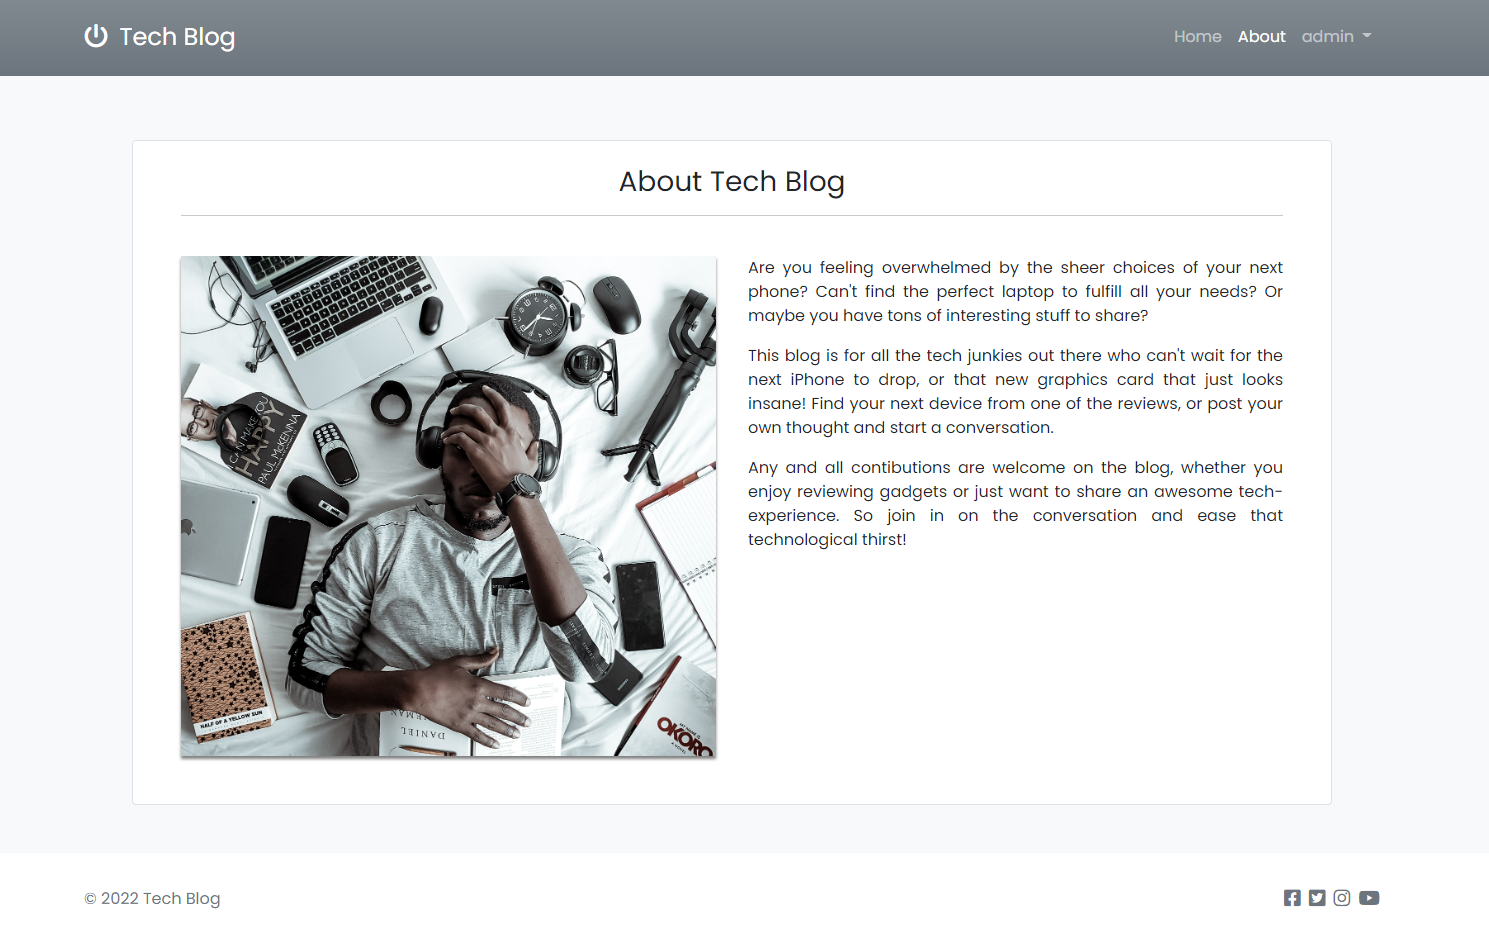
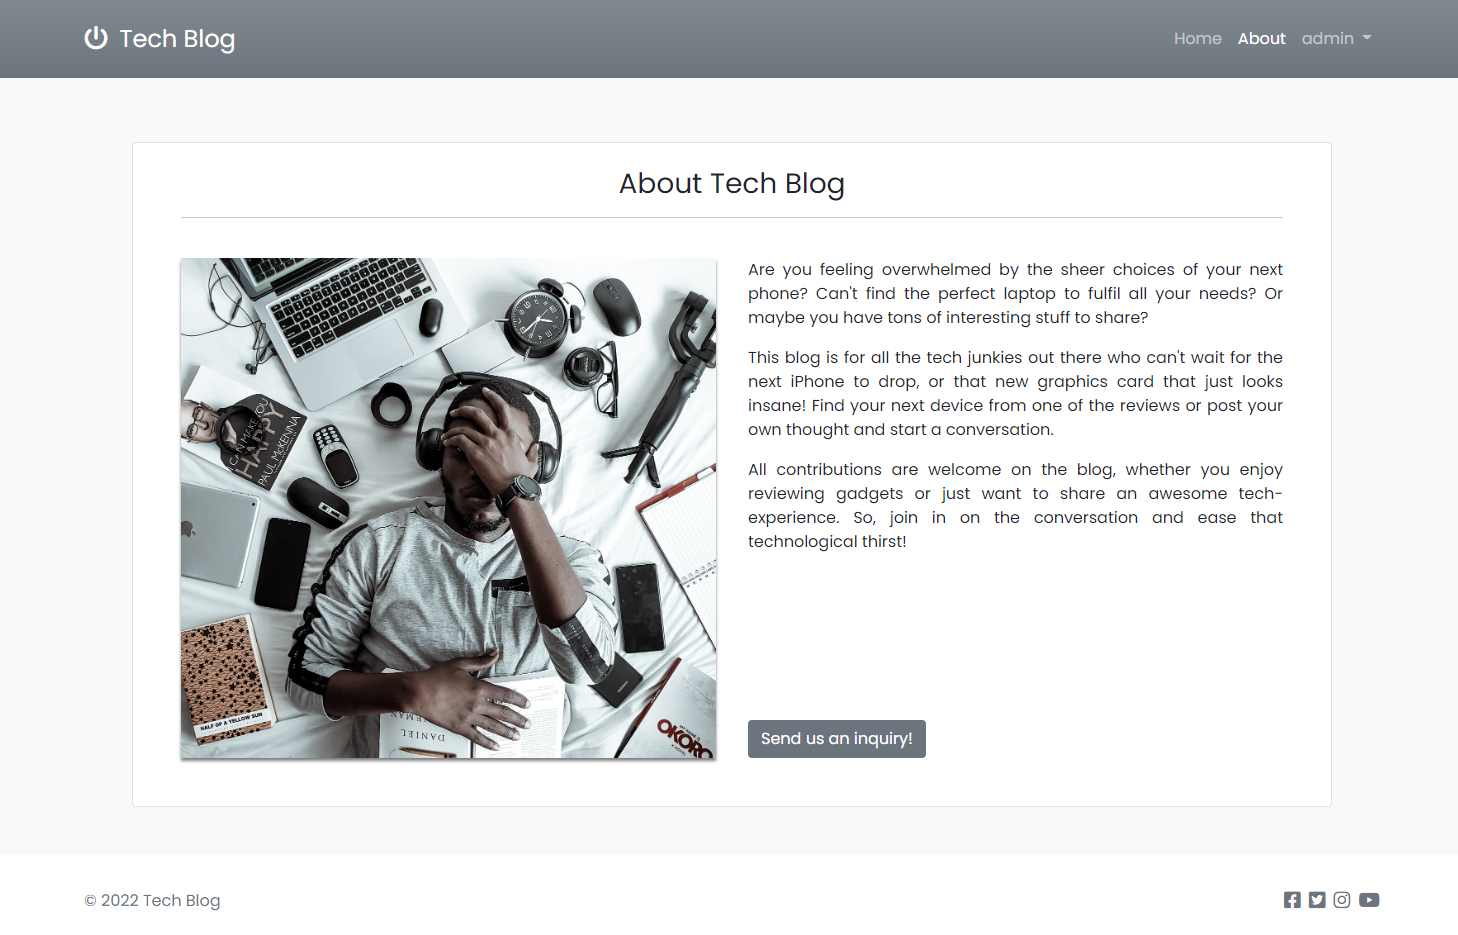
Add content about Inquiry model & page to README.md

diff --git a/users/tests/test_forms.py b/users/tests/test_forms.py
@@ -3,7 +3,7 @@ from users.forms import UserRegisterForm, UserUpdateForm
 
 
 class TestForm(TestCase):
-    """Tests for blog app form"""
+    """Tests for users app forms"""
 
     def test_user_register_form(self):
         form = UserRegisterForm(

diff --git a/README.md b/README.md
@@ -53,6 +53,10 @@ The following user stories were used in an agile approach when creating the appl
 
   - As a Site User I can delete my own comments so that I can control my own content.
 
+  - As a Site User I can contact the administration of the blog so that I can ask questions or help with the blog.
+
+  - As a Site User I can reset my password using my registered e-mail so that I can gain access to my account if I forget my password.
+
 ### Structure
 
 The site is structured with simplicity and accessibility in mind, to help users intuitively navigate the site. The landing page gives the user relevant information about each post without cluttering the feed. A simple, fully responsive navigation helps keep the flow of the site balanced when navigating and interacting with the application. All pages are carefully structured to be consistent and pleasing to browse. All user interactions, such as registering an account or creating a post have logical responses and provide relevant feedback.
@@ -69,7 +73,7 @@ To help facilitate a logical flow of the application during the development proc
 
 ### Data Model
 
-The database used for the application requires a Post and Comment model. The user authentication system is included in the Django framework and a User model was therefore already provided. To get an idea of the relationships and fields required in the models, an ERD (Entity Relationship Diagram) was created using [Lucidchart](https://www.lucidchart.com/pages/).
+The database used for the application requires a Post, Comment and Inquiry model. The user authentication system is included in the Django framework and a User model was therefore already provided. To get an idea of the relationships and fields required in the models, an ERD (Entity Relationship Diagram) was created using [Lucidchart](https://www.lucidchart.com/pages/).
 
 <details>
 
@@ -101,6 +105,12 @@ The database used for the application requires a Post and Comment model. The use
 
   - The post field has a FK to the Post model, to make sure the comment is assigned to the correct blog post.
 
+- #### Inquiry Model
+
+  - ID and time of creation is given automatically.
+
+  - Users can choose an email adress and write an inquiry, while author is automatically set to the signed in users ID.
+
 ### Wireframes
 
 Wireframes were created using Balsamiq to help the planning process and get an idea of how the site was to be built. The finished site came very close to these mockups, with some minor adjustments.
@@ -114,6 +124,9 @@ Home page
 
 About page
 ![Desktop wireframe about](static/images/readme-images/wireframes/Desktop-about.png)
+
+Contact page
+![Desktop wireframe contact](static/images/readme-images/wireframes/Desktop-send_inquiry.png)
 
 Register page
 ![Desktop wireframe register](static/images/readme-images/wireframes/Desktop-register.png)
@@ -153,6 +166,9 @@ Home page<br>
 
 About page<br>
 ![Mobile wireframe about](static/images/readme-images/wireframes/Mobile-about.png)
+
+Contact page<br>
+![Mobile wireframe contact](static/images/readme-images/wireframes/Mobile-send_inquiry.png)
 
 Register page<br>
 ![Mobile wireframe register](static/images/readme-images/wireframes/Mobile-register.png)
@@ -213,7 +229,7 @@ This approach is especially powerful when working in teams, but still made the d
 
 </details>
 
-As evident by the above image, not all user stories were finished in the time frame of this project. These will be implemented and possibly added to in the future.
+As evident by the above image, not all user stories were finished in the time frame of this project. These will be implemented and possibly added to in the future. CHANGE?
 
 ## Features
 
@@ -311,6 +327,8 @@ The following section will provide an overview of the features included in Tech 
 
   - The about page serves as a short introduction to the blog and what users can expect to find. The text emphasize that everyone is welcome to become members and start sharing their thought with other members, regardless of whether a user is looking for tips, or want to write reviews etc.
 
+  - A link to the contact page can be found here, that lets users send an inquiry to the administration of the site.
+
   - A fitting image of a guy overwhelmed with tech gadgets helps relate to users.
 
   <details>
@@ -326,6 +344,28 @@ The following section will provide an overview of the features included in Tech 
   <summary>About Page - Mobile</summary>
 
   ![About Page - Mobile](static/images/readme-images/about-mobile.png)
+
+  </details>
+
+- ### Contact Page
+
+  - If a user wishes to come in contact with the administraion of the site, they can send an inquiry from the contact page. 
+
+  - The form lets signed in users choose an email for a response, and write an inquiry ELABORATE!
+
+  <details>
+
+  <summary>Contact Page - Desktop</summary>
+
+  ![Contact Page - Desktop](static/images/readme-images/contact-desk.png)
+
+  </details>
+
+  <details>
+
+  <summary>Contact Page - Mobile</summary>
+
+  ![Contact Page - Mobile](static/images/readme-images/contact-mobile.png)
 
   </details>
 
@@ -409,7 +449,9 @@ The following section will provide an overview of the features included in Tech 
 
 - ### Sign Out Page
 
-  - When a user clicks the sign out link a page with a message stating they have been signed out is shown. Two links to the home page and back to the sign in page can also be found.
+  - When a user clicks the sign out link a page with a message stating they have been signed out is shown. 
+  
+  - Two links, to the home page and back to the sign in page can also be found.
 
   <details>
 
@@ -609,6 +651,14 @@ To ensure all code for Tech Blog is correct, validation through various validato
   <summary>About Page</summary>
 
   ![About Page](static/images/readme-images/testing/html-about.png)
+
+  </details>
+
+  <details>
+
+  <summary>Contact Page</summary>
+
+  ![Contact Page](static/images/readme-images/testing/html-contact.png)
 
   </details>
 
@@ -818,6 +868,14 @@ To ensure all code for Tech Blog is correct, validation through various validato
 
   <details>
 
+  <summary>Users App models.py</summary>
+
+  ![Users App models.py](static/images/readme-images/testing/pep8-users-models.png)
+
+  </details>
+
+  <details>
+
   <summary>Users App urls.py</summary>
 
   ![Users App urls.py](static/images/readme-images/testing/pep8-users-urls.png)
@@ -883,6 +941,22 @@ To ensure all code for Tech Blog is correct, validation through various validato
   <summary>Lighthouse - About Page - Mobile</summary>
 
   ![Lighthouse - About Page - Mobile](static/images/readme-images/testing/lighthouse-about-mobile.png)
+
+  </details>
+
+  <details>
+
+  <summary>Lighthouse - Contact Page - Desktop</summary>
+
+  ![Lighthouse - Contact Page - Desktop](static/images/readme-images/testing/lighthouse-contact.png)
+
+  </details>
+
+  <details>
+
+  <summary>Lighthouse - Contact Page - Mobile</summary>
+
+  ![Lighthouse - Contact Page - Mobile](static/images/readme-images/testing/lighthouse-contact-mobile.png)
 
   </details>
 
@@ -1063,6 +1137,17 @@ To make sure all interactions and forms / links work as intended, manual testing
 | &check; | Clicking a post image or 'Visit Post' loads post detail page |
 | &check; | Clicking pagination buttons loads next / previous page |
 | &check; | Clicking social media links in footer opens in new tab |
+
+| Status | About Page |
+|:------:| ---------- |
+| &check; | Clicking Send us an inquiry! loads contact page (signed in) |
+| &check; | Clicking Send us an inquiry! redirects to sign in page (signed out) |
+| &check; | After signin in, redirects back to contact page (signed in) |
+
+| Status | Contact Page |
+|:------:| ---------- |
+| &check; | Filling out form incorrectly gives error message (signed in) |
+| &check; | Filling out form correctly saves inquiry and redirects to home page (signed in) |
 
 | Status | Create Post Page |
 |:------:| ---------------- |
